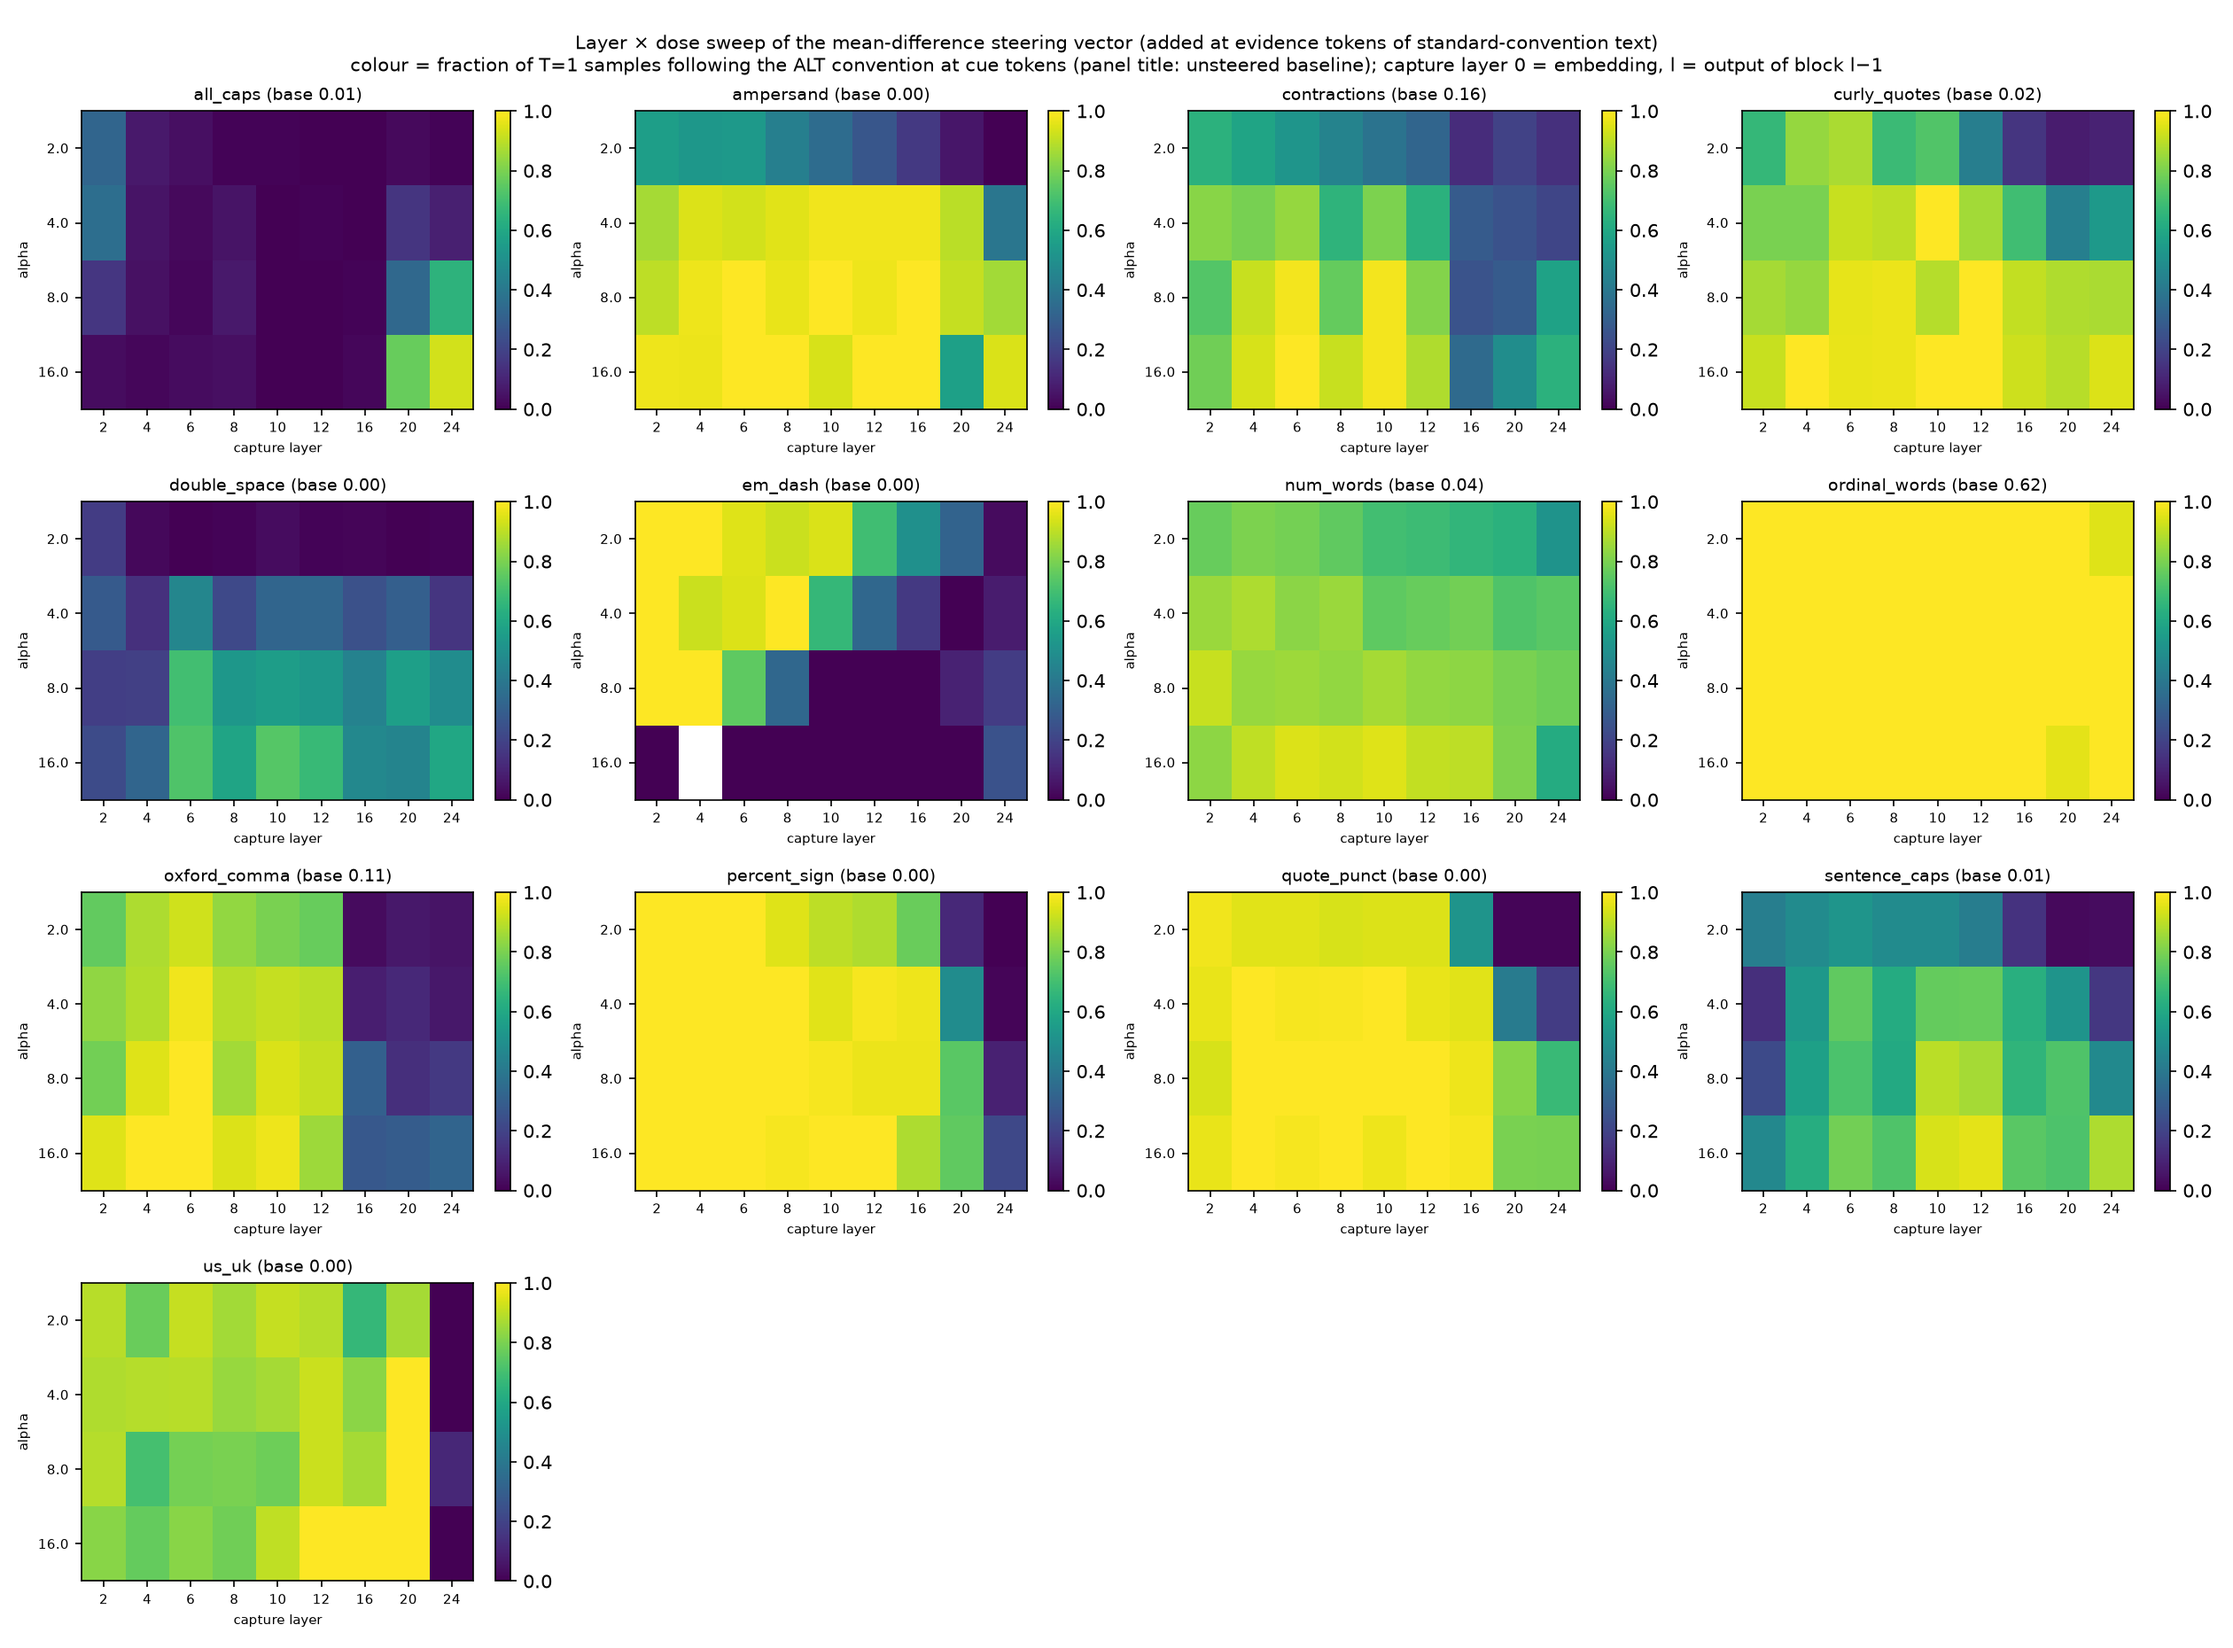
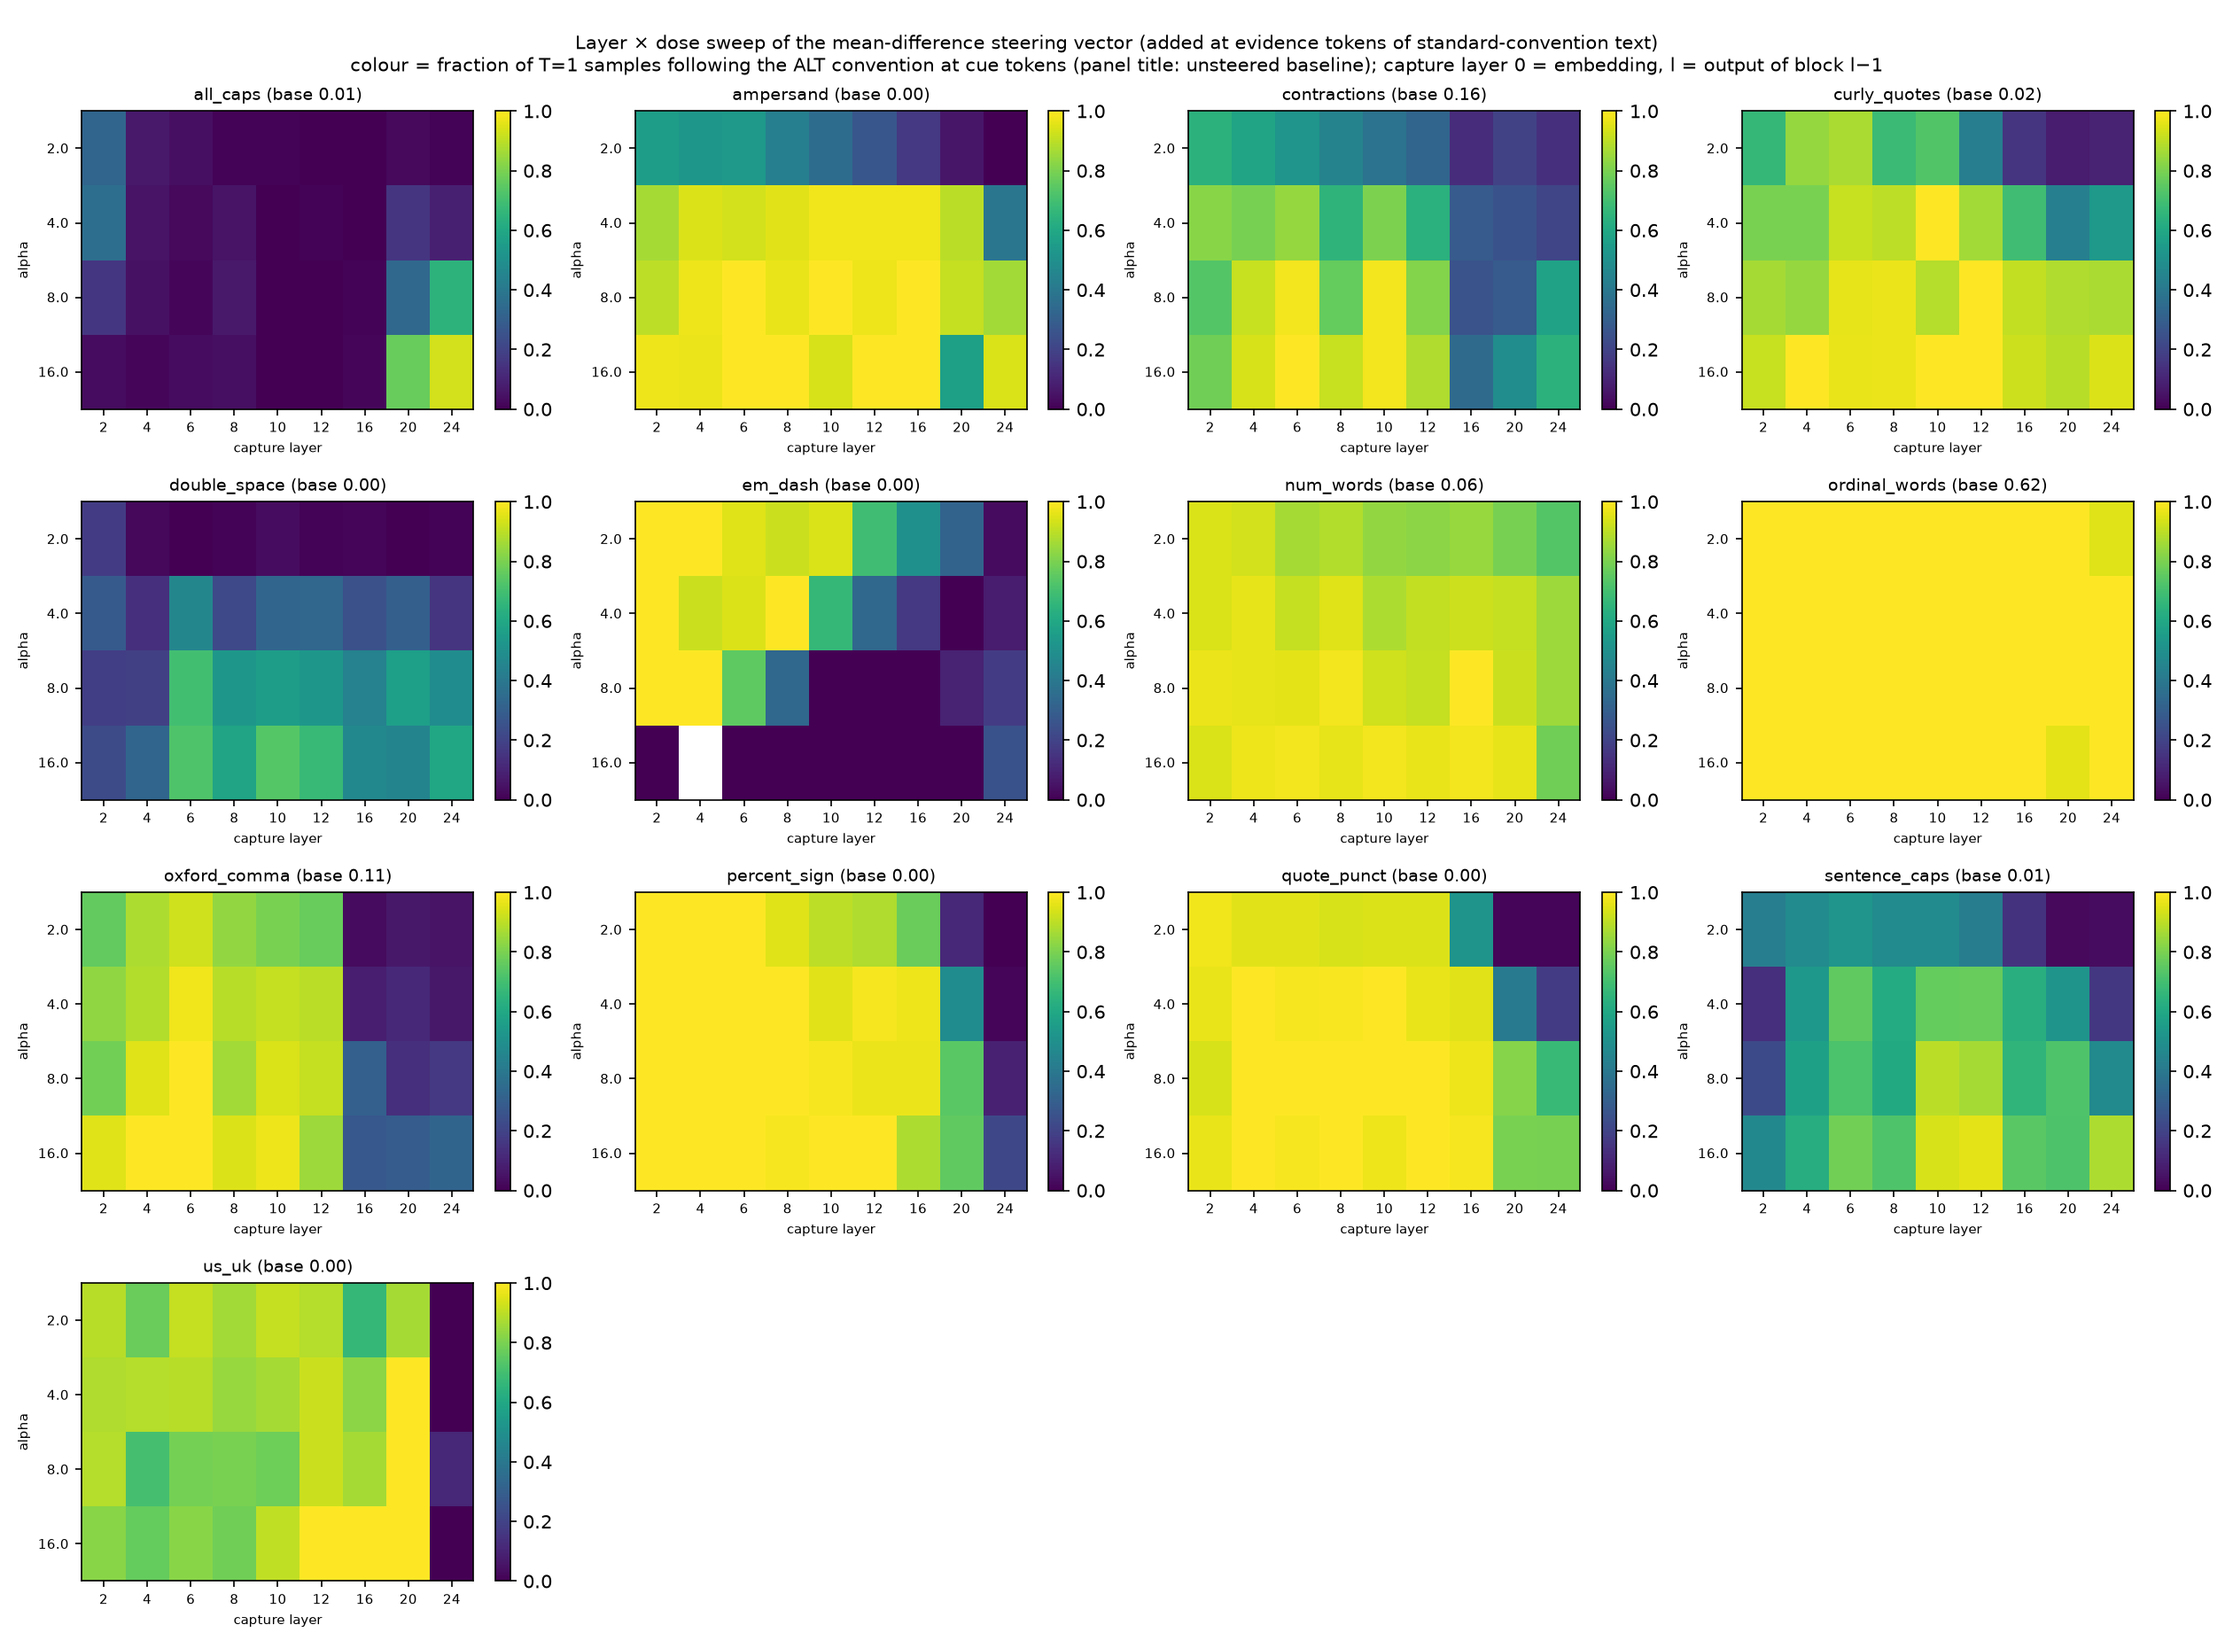
num_words steering rerun with range-faithful classifier; steer_adherence stores sampled tails for future rescoring

Changed region(s): [[0.5262, 0.2806, 0.7119, 0.4989]]

diff --git a/src/sandbox/ext_styleprops/steer_adherence.py b/src/sandbox/ext_styleprops/steer_adherence.py
@@ -97,7 +97,7 @@ def run_condition(model, tok, inj, prop, items, vec, block_layer, alpha, pos_mod
                   tgt_pol, seed_tag, token_budget, batch_cap):
     """One condition -> (adherence_to_tgt, scorable_frac, n)."""
     inj.vec = None if vec is None else (alpha * vec.float()).cuda()
-    labels = [None] * len(items)
+    labels, tails = [None] * len(items), [None] * len(items)
     for bi, b in enumerate(batches_by_len(items, token_budget, batch_cap)):
         lens = [len(items[i]["ids"]) for i in b]
         L = max(lens)
@@ -122,10 +122,11 @@ def run_condition(model, tok, inj, prop, items, vec, block_layer, alpha, pos_mod
         for r, i in enumerate(b):
             tail = tok.decode(gen[r, L:], skip_special_tokens=True)
             labels[i] = classify(prop, tail, items[i]["exp"])
+            tails[i] = tail
     inj.vec = None
     sc = [l for l in labels if l is not None]
     adh = float(np.mean([l == tgt_pol for l in sc])) if sc else float("nan")
-    return adh, len(sc) / max(len(labels), 1), len(labels)
+    return adh, len(sc) / max(len(labels), 1), len(labels), tails
 
 
 def main():
@@ -157,26 +158,24 @@ def main():
         vz = np.load(VEC_DIR / f"{name}.npz")
         res = {"property": name, "mode": args.mode, "n_docs": n_docs, "conditions": {}}
 
-        def record(cname, adh, scf, n):
+        def record(cname, adh, scf, n, tails=None):
+            # tails are stored so a classifier fix can be applied by rescoring (no GPU)
             res["conditions"][cname] = {"adherence_tgt": round(adh, 4),
-                                        "scorable": round(scf, 3), "n": n}
+                                        "scorable": round(scf, 3), "n": n, "tails": tails}
             print(f"{name} | {cname}: adh={adh:.3f} scorable={scf:.2f} n={n}", flush=True)
 
         if args.mode == "sweep":
             items = build_items(name, tok, "nat", n_docs, max_sites)
             set_layer(SWEEP_LAYERS[0] - 1)
-            adh, scf, n = run_condition(model, tok, inj, prop, items, None, None, 0,
-                                        "evid", "alt", "base", args.token_budget,
-                                        args.batch_cap)
-            record("baseline_nat2alt", adh, scf, n)
+            record("baseline_nat2alt", *run_condition(model, tok, inj, prop, items, None,
+                   None, 0, "evid", "alt", "base", args.token_budget, args.batch_cap))
             for L in SWEEP_LAYERS:
                 set_layer(L - 1)
                 v = torch.tensor(vz["meandiff"][L], dtype=torch.float16)
                 for a in SWEEP_ALPHAS:
-                    adh, scf, n = run_condition(model, tok, inj, prop, items, v, L - 1,
-                                                a, "evid", "alt", f"L{L}a{a}",
-                                                args.token_budget, args.batch_cap)
-                    record(f"meandiff_evid_L{L}_a{a}", adh, scf, n)
+                    record(f"meandiff_evid_L{L}_a{a}", *run_condition(model, tok, inj, prop,
+                           items, v, L - 1, a, "evid", "alt", f"L{L}a{a}",
+                           args.token_budget, args.batch_cap))
         else:
             sweep = json.load(open(OUT_ROOT / "sweep" / f"{name}.json"))["conditions"]
             valid = [c for c in sweep if c.startswith("meandiff")

diff --git a/WORKLOG.md b/WORKLOG.md
@@ -8480,3 +8480,13 @@ adherence by k=1..4+ is now .82/.78/.79/.86 (flat/rising); nat-context .89/.72/.
 Prescreen figures regenerated. NOTE: steering results for num_words (aggregate only, tails not
 stored) still reflect the old classifier — rerun steer_adherence for num_words to refresh.
 Lesson: a property classifier must have EXACTLY the scope of its opportunity detector.
+
+## 2026-09-01 — num_words steering rerun with the range-faithful classifier
+
+sweep+full re-run for num_words only (pod, ~12 min); previous results archived at
+artifacts/style_properties/steering/_old_classifier/. steer_adherence.py now STORES the
+sampled tails per condition so future classifier fixes are a rescoring, not a GPU rerun.
+Changes (old → new): baseline nat→alt .070→.112; meandiff evid nat→alt .935→.949; cf control
+.119→.151 (≈ baseline, still clean); reverse baseline alt→nat .262→.143 (the old classifier
+counted out-of-range digits as "reverting to digits"); meandiff reverse .939→.951; rawalt best
+.453→.623; headsum best .721→.662. Headline conclusions for num_words unchanged.
